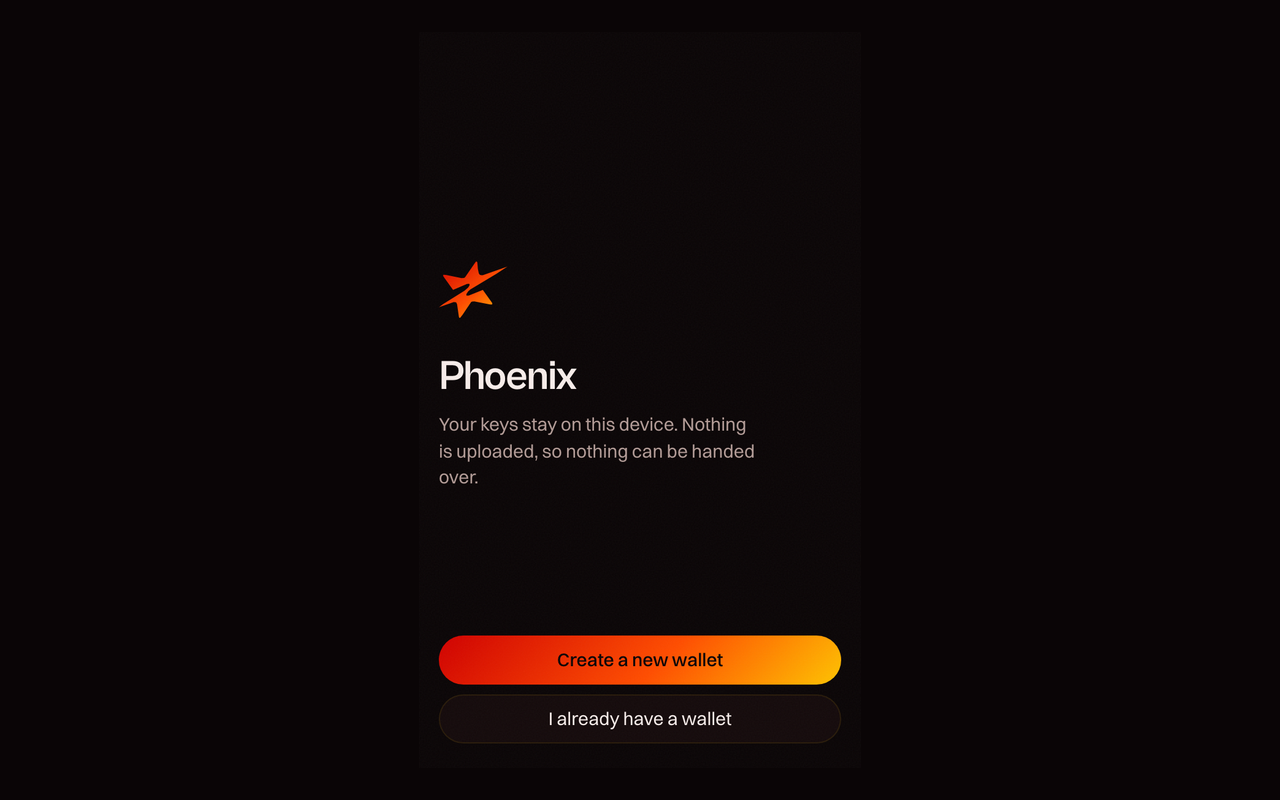
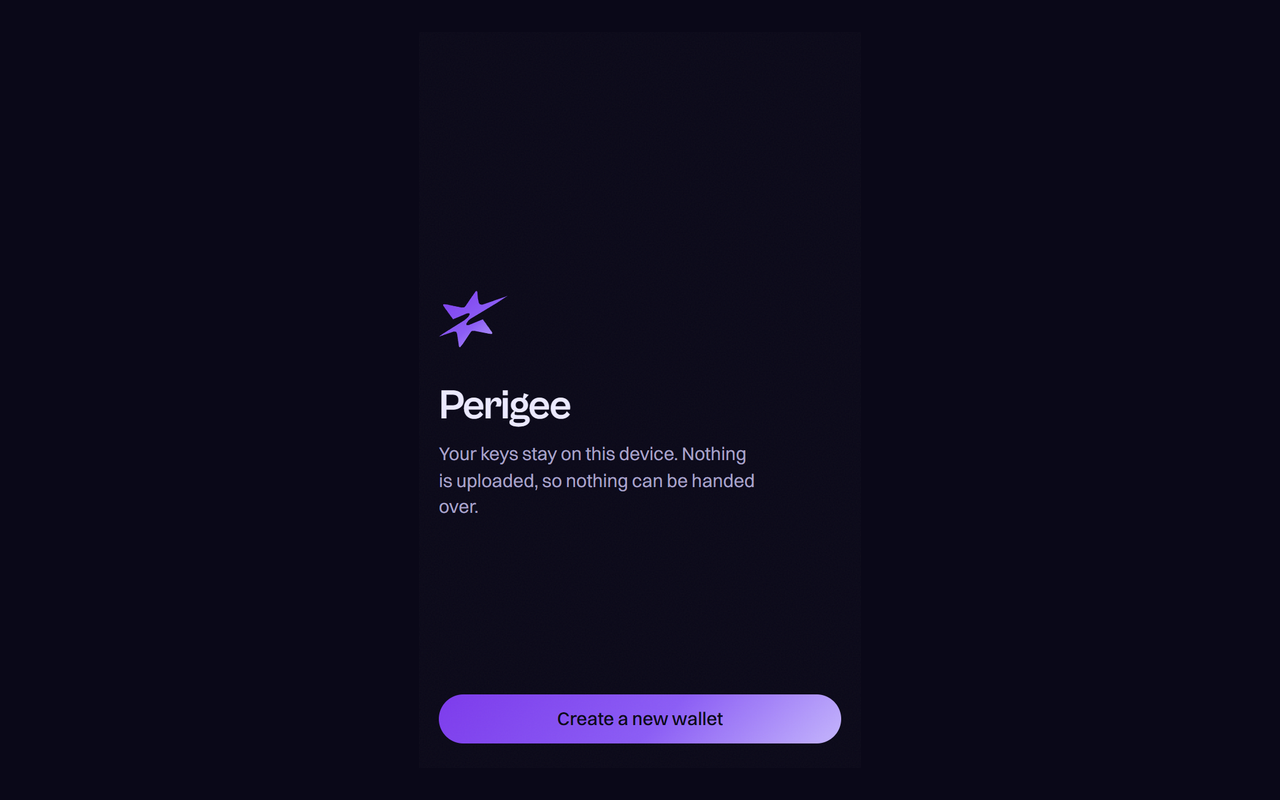
store: point at perigeewallet.space and reshoot the listing screenshots
Domain is perigeewallet.space now, so the privacy-policy URL the store
submission hands Google points there, and About stops showing the
made-up perigee.wallet placeholder. Note the dependency this creates:
https://perigeewallet.space/privacy.html has to resolve before the
submission goes in — Chrome Web Store checks that URL — and the page it
serves lives on the landing branch, which still says phoenixwallet.space.

The "Goes live with the public release" hedge under the website row is
gone with the placeholder, and review.mjs's assertion on that sentence
goes with it.

Screenshots were the bigger problem: the five in store/screenshots were
the old orange UI showing a $15,414 balance — the exact invented money
the last commit removed from the product. Uploading them would have put
a listing and a build that contradict each other in front of a reviewer
who has already rejected this twice.

store-screenshots.mjs needed three fixes before it could reshoot:
- it walked the import flow, which no longer exists, so it now creates a
  wallet: password, reveal, confirm (brute-forcing the three chips, since
  a wrong pick only shakes), open
- the canvas was still filled with the fire palette's #0A0506
- chromium.launch() wanted Playwright's own browsers, which are not
  installed here; system Chrome via channel does the job

New set is Welcome, recovery phrase, Home, Receive, Settings — all
1280x800, all showing the empty wallet a real installer gets. Buy and
[…]

Changed region(s): [[0.3438, 0.7812, 0.6562, 0.9375], [0.3438, 0.3125, 0.5938, 0.6562]]

diff --git a/extension/src/screens/settings/About.tsx b/extension/src/screens/settings/About.tsx
@@ -17,7 +17,7 @@ type LinkId = 'website' | 'docs' | 'support' | 'privacy'
  * rather than an `href` to a domain that does not exist yet.
  */
 const LINKS: readonly { id: LinkId; label: string; detail: string }[] = [
-  { id: 'website', label: 'Website', detail: 'perigee.wallet' },
+  { id: 'website', label: 'Website', detail: 'perigeewallet.space' },
   { id: 'docs', label: 'Documentation', detail: 'Guides and walkthroughs' },
   { id: 'support', label: 'Support', detail: 'Get help from the team' },
   { id: 'privacy', label: 'Privacy policy', detail: 'How your data is handled' },
@@ -50,8 +50,7 @@ function LinkContent({ id, onCopy }: { id: LinkId; onCopy: (text: string) => voi
         <p className="text-13 text-text-dim">
           The Perigee Wallet website — news, guides and release notes.
         </p>
-        <CopyRow text="perigee.wallet" onCopy={onCopy} />
-        <p className="text-11 text-text-mute">Goes live with the public release.</p>
+        <CopyRow text="perigeewallet.space" onCopy={onCopy} />
       </div>
     )
   }
@@ -74,7 +73,7 @@ function LinkContent({ id, onCopy }: { id: LinkId; onCopy: (text: string) => voi
     return (
       <div className="space-y-3 pb-2">
         <p className="text-13 text-text-dim">Reach the team directly.</p>
-        <CopyRow text="support@perigee.wallet" onCopy={onCopy} />
+        <CopyRow text="support@perigeewallet.space" onCopy={onCopy} />
         <p className="text-11 text-text-mute">Typical reply time is within one business day.</p>
       </div>
     )

diff --git a/extension/store/privacy-policy.md b/extension/store/privacy-policy.md
@@ -21,4 +21,4 @@ will be described plainly rather than folded into a version bump.
 
 Contact: phoenixwalletcontacts@gmail.com
 
-Live version of this policy: https://phoenixwallet.space/privacy.html
+Live version of this policy: https://perigeewallet.space/privacy.html
